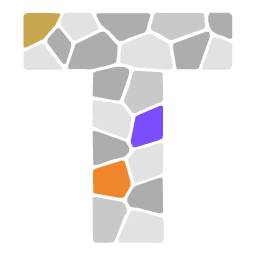
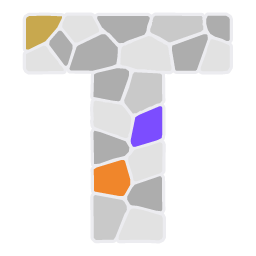
The Tessera mark takes a white outline on the dark gradient and the Archipelia mark has no outline on the light gradient, every other mark look staying as it was; the contrast test records Archipelia's large dot on the light gradient, 2.36:1, by name as a case the owner accepted, holds it there and 

diff --git a/src/brand/marks/archipelia.constants.ts b/src/brand/marks/archipelia.constants.ts
@@ -3,7 +3,7 @@ import type { BrandMarkData } from '../brand.type';
 
 const ARCHIPELIA_MARK: BrandMarkData = {
   viewBox: '203 190 842 842',
-  grounds: { light: { outline: 'dark' }, dark: { inks: 'onDark' } },
+  grounds: { dark: { inks: 'onDark' } },
   paths: [
     { ink: '#3b2a7a', onDark: '#b9a3ff', evenOdd: true, d: 'M539 351L543 352L543 362L494 383L464 398L458 399L442 408L429 412L427 417L429 421L430 435L427 452L420 466L407 480L396 487L383 492L357 492L355 494L349 516L316 611L316 615L329 623L337 632L344 650L344 665L341 676L334 687L327 694L325 694L322 699L338 723L338 726L341 728L341 731L347 738L347 741L350 743L350 746L363 765L364 770L367 772L379 795L397 788L412 785L437 786L457 793L472 803L488 824L495 846L495 868L493 873L495 877L500 877L512 882L517 882L543 891L558 894L604 909L622 913L630 897L644 883L648 882L654 877L670 872L686 871L698 873L711 878L713 881L721 885L725 891L730 891L756 871L766 866L769 862L776 859L782 853L829 822L832 818L827 810L822 793L821 769L828 743L835 733L835 730L849 714L865 702L887 693L910 690L900 570L898 568L887 568L875 565L857 555L843 541L833 522L830 508L830 491L834 474L838 468L838 465L843 459L843 456L740 379L738 377L738 373L741 366L749 370L752 374L790 401L801 411L806 413L809 417L831 432L850 448L852 448L863 438L883 429L905 426L923 428L935 432L952 443L965 458L973 477L975 502L973 513L966 530L963 532L958 541L943 555L927 564L912 567L910 571L916 621L915 624L918 643L917 647L919 654L921 689L923 692L936 694L946 698L967 711L985 733L993 752L995 762L995 787L990 806L984 818L976 829L956 847L933 858L911 862L887 860L867 853L851 843L840 832L840 830L837 829L734 901L738 910L741 925L741 937L737 953L728 968L717 979L702 988L692 991L672 992L660 990L639 979L638 976L636 976L628 967L622 956L618 936L619 926L617 924L533 900L528 897L510 893L494 887L489 887L479 905L467 917L458 922L456 925L439 932L423 935L411 935L392 931L376 923L358 906L351 895L345 878L343 859L345 844L349 832L357 817L370 804L370 800L368 799L368 796L363 790L351 767L345 760L344 755L341 753L335 740L332 738L313 704L311 702L293 704L279 701L262 689L252 670L252 647L255 638L261 629L268 622L282 614L305 611L332 527L336 520L342 497L345 492L344 488L331 481L322 472L320 467L317 465L311 450L311 421L316 407L322 398L339 383L355 376L367 374L382 375L398 380L411 389L419 398L421 403L425 403L433 398L450 392L457 387L463 386L478 379L479 377L485 376L495 370L500 369L501 367L507 366L519 359L525 358Z' },
     { ink: '#7c4dff', evenOdd: true, d: 'M634 230L657 230L674 233L676 235L681 235L688 238L706 248L726 267L735 280L743 297L748 319L748 343L744 361L735 382L732 384L727 393L714 407L696 420L682 427L654 434L631 434L612 430L604 426L600 426L582 415L563 397L556 387L546 367L543 352L541 351L540 329L543 309L550 290L562 271L576 256L591 245L607 237Z' },

diff --git a/src/brand/marks/tessera.constants.ts b/src/brand/marks/tessera.constants.ts
@@ -3,7 +3,7 @@ import type { BrandMarkData } from '../brand.type';
 
 const TESSERA_MARK: BrandMarkData = {
   viewBox: '228 226 799 799',
-  grounds: { light: { outline: 'dark' } },
+  grounds: { light: { outline: 'dark' }, dark: { outline: 'light' } },
   paths: [
     { ink: '#e2e2e2', group: 'tessera', d: 'M693 331L703 333L725 347L739 353L741 356L753 361L757 370L759 391L761 393L760 398L762 400L764 422L767 430L766 439L762 443L716 442L715 440L704 441L701 439L689 440L687 438L655 437L624 427L610 425L603 421L605 380L608 367L614 362L621 361L629 356L636 355L644 350Z' },
     { ink: '#adadad', group: 'tessera', d: 'M544 325L553 325L558 328L595 368L594 396L590 421L576 427L515 442L442 441L440 435L463 366L467 362Z' },

diff --git a/brand/LOGO.md b/brand/LOGO.md
@@ -82,9 +82,9 @@ A mark stands on one of two gradients of its palette: the light pair, `--c-gradi
 
 | Brand | On the light gradient | On the dark gradient |
 |---|---|---|
-| Tessera | As drawn, with a black outline | As drawn: its greys and coloured tiles already read on dark |
+| Tessera | As drawn, with a black outline | As drawn, with a white outline |
 | Relic of the Past | As drawn: its own black outline is its edge | As drawn, the same mark |
-| Archipelia | As drawn, with a black outline | Its second colours: the ring and its dots turn lilac, `#b9a3ff`; the large purple dot stays |
+| Archipelia | As drawn, with no outline | Its second colours: the ring and its dots turn lilac, `#b9a3ff`; the large purple dot stays |
 | Brock | As drawn, with a black outline | As drawn, the charcoal stone, with a white outline |
 
 ```tsx
@@ -97,7 +97,7 @@ A mark stands on one of two gradients of its palette: the light pair, `--c-gradi
 
 `pnpm icons` writes each look as files, for a static page that shows the mark as an image: `brand/light-ground/<app>.svg` and `brand/dark-ground/<app>.svg`, each with `<app>/mark/mark-<size>.png` at the sizes of the mark ladder, and no `.ico`. The static splash page reads `brand/dark-ground/`.
 
-A test holds each mark at 3:1 or more against each sampled point of both gradients of its palette. With an outline, the outline is the edge that has to reach 3:1, as WCAG allows for a shape with a border; Relic of the Past's own black outline is its edge on the light gradient. Without one, every shape has to. Relic of the Past on the dark gradient is kept as drawn: its black outline is 1.08:1 and its bottom row 2.87:1 there, while its gold and orange fill reads at 4.89:1 to 11.70:1.
+A test holds each mark at 3:1 or more against each sampled point of both gradients of its palette. With an outline, the outline is the edge that has to reach 3:1, as WCAG allows for a shape with a border; Relic of the Past's own black outline is its edge on the light gradient. Without one, every shape has to. Relic of the Past on the dark gradient is kept as drawn: its black outline is 1.08:1 and its bottom row 2.87:1 there, while its gold and orange fill reads at 4.89:1 to 11.70:1. Archipelia on the light gradient has no outline by the owner's choice: its dark purple ring reads at 5.74:1, and its large purple dot at 2.36:1 is the one shape the test accepts under 3:1. The test still fails if that dot drops under 2.36:1, or if any other shape drops under 3:1.
 
 Brock's stone faces meet with no gap: the body path covers the whole stone outline, less the hole of the b, and every face shares its edges with the faces beside it, so no ground shows between them at any size.
 

diff --git a/MIGRATION.md b/MIGRATION.md
@@ -5473,3 +5473,25 @@ interface CommandPaletteItem { /* … */ action?: ReactNode }
 2. Drop `ground="light"` where a mark sits on an ordinary surface; keep it on the light gradient.
 3. A static page on the light gradient reads `brand/light-ground/<app>.svg`.
 4. Brock: put Reset layout in the Ctrl+K search as a `CommandPaletteItem` with `action: <ConfirmIconButton size="xs" … />`.
+
+## 183. Tessera takes a light outline on the dark gradient, and Archipelia none on the light
+
+From the owner's answer on the brand marks. Every other look of section 182 stays as it is.
+
+| Mark | Light gradient | Dark gradient |
+|---|---|---|
+| Tessera | as drawn, black outline: 7.98:1 | as drawn, white outline: 13.75:1 |
+| Archipelia | as drawn, no outline: ring 5.74:1, large dot 2.36:1 | unchanged: lilac ring 8.08:1, large dot 3.62:1 |
+
+```ts
+TESSERA_MARK.grounds = { light: { outline: 'dark' }, dark: { outline: 'light' } };
+ARCHIPELIA_MARK.grounds = { dark: { inks: 'onDark' } };
+```
+
+- Tessera's outline on the dark gradient is the light rim colour, `#ececf0`, at the fine width of section 176. It also shows in the gaps between its tiles, the way Brock's does.
+- Archipelia's large purple dot reads at 2.36:1 on the light gradient. The owner accepted it knowingly, so the contrast test records it by name with its reason and holds it at 2.36:1 or more; it fails if that dot drops lower, and for any other shape under 3:1. Its dark purple ring still has to reach 3:1, and does.
+- `pnpm icons` writes `brand/dark-ground/tessera.svg` with the white outline and `brand/light-ground/archipelia.svg` without one, with their mark PNG ladders. The static splash page, which reads `brand/dark-ground/`, shows Tessera with the outline.
+
+### What an app does
+
+Nothing. An app that draws `ground="dark"` on the Tessera mark, or `ground="light"` on the Archipelia mark, gets the new look by itself.

diff --git a/.changeset/marks-tessera-dark-archipelia-light.md b/.changeset/marks-tessera-dark-archipelia-light.md
@@ -1,0 +1,5 @@
+---
+"@drizztdourden08/tessera": patch
+---
+
+The Tessera mark takes a white outline on the dark gradient, and the Archipelia mark has no outline on the light gradient; every other look of the marks stays as it was. The contrast test records Archipelia's large dot on the light gradient, 2.36:1, as a case the owner accepted, and still fails for any other shape under 3:1. `pnpm icons` writes the two changed looks again.
